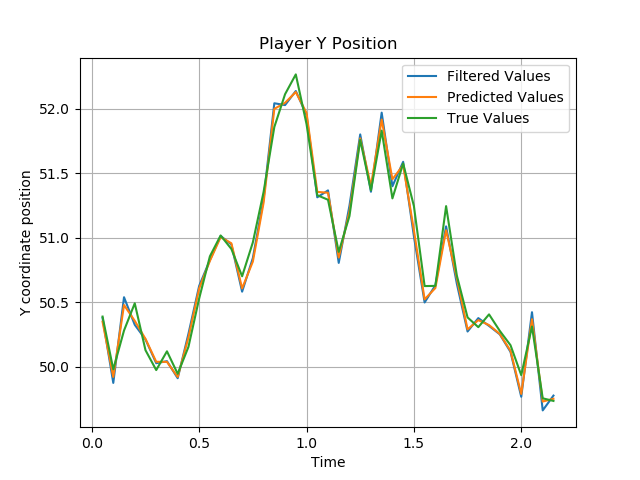
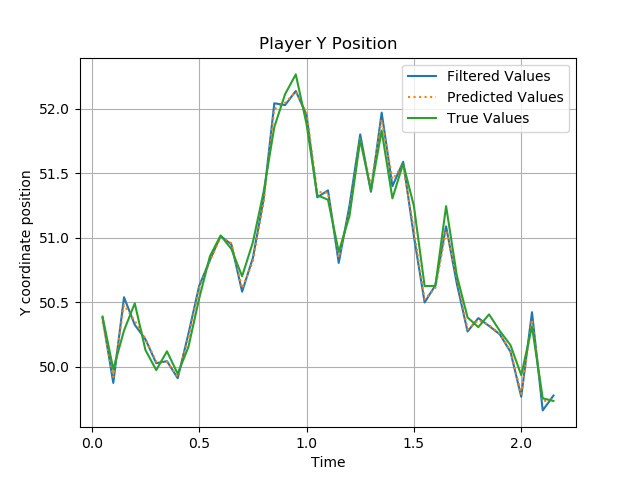
plot with dotted line

diff --git a/plot.py b/plot.py
@@ -73,7 +73,7 @@ if __name__ == "__main__":
         
         fig1 = plt.figure(1)
         plt.plot(time, filtx, label = "Filtered Values")
-        plt.plot(time, predx, label = "Predicted Values")
+        plt.plot(time, predx, label = "Predicted Values", linestyle='dotted')
         plt.plot(time, posix, label = "True Values")
         
         plt.legend()
@@ -86,7 +86,7 @@ if __name__ == "__main__":
         fig2 = plt.figure(2)
         
         plt.plot(time, filty, label = "Filtered Values")
-        plt.plot(time, predy, label = "Predicted Values")
+        plt.plot(time, predy, label = "Predicted Values", linestyle='dotted')
         plt.plot(time, posiy, label = "True Values")
         
         plt.legend()
